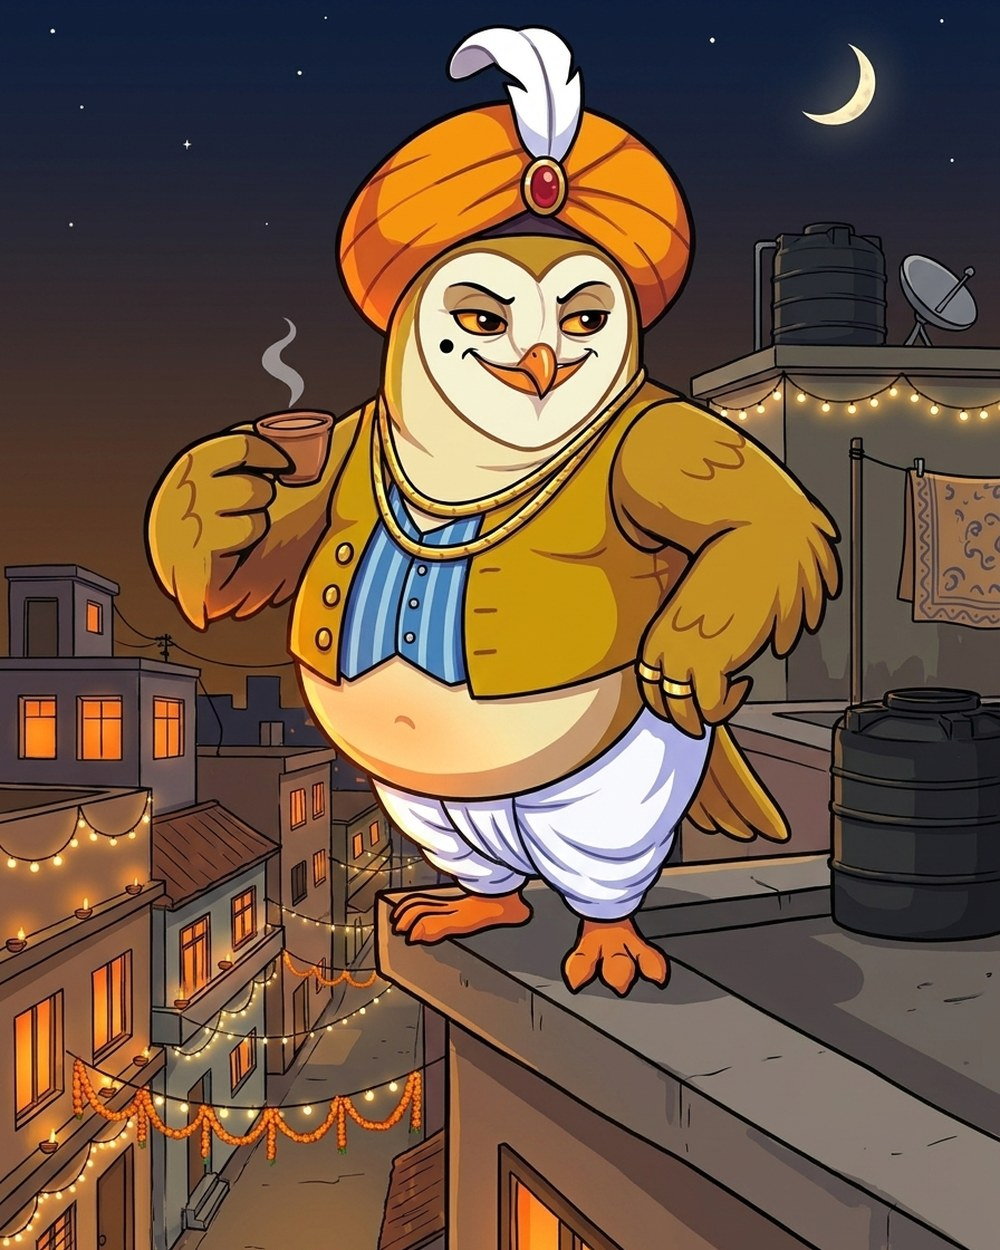
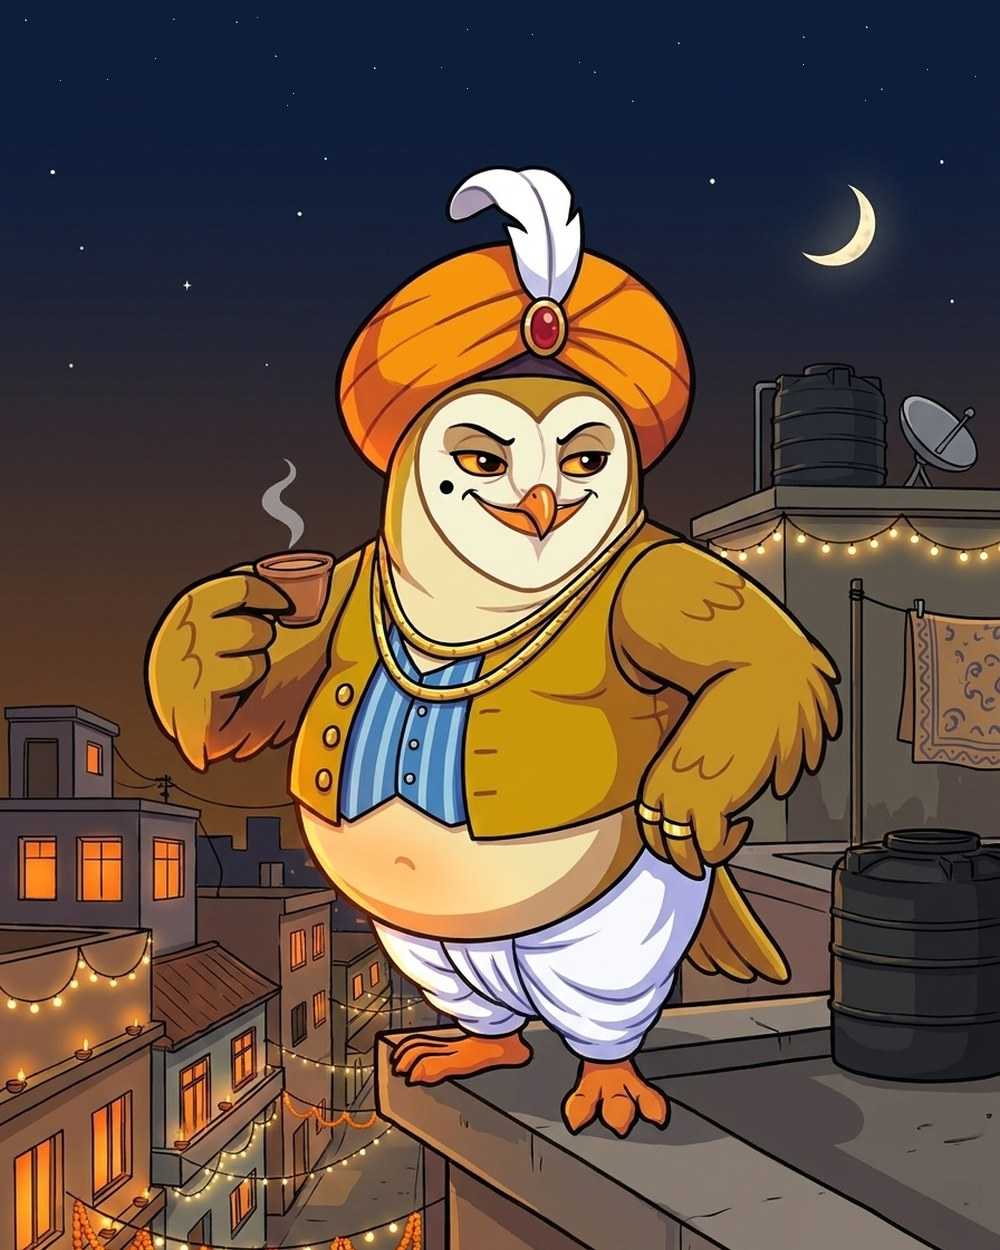
Ullu: mustard vest owl, masala palette, gallery ribbon, hero fit, smoother owls, 6 picture backgrounds

diff --git a/templates/landing/src/styles/lights.css b/templates/landing/src/styles/lights.css
@@ -300,12 +300,21 @@ html.ul-motion .lt-gift[open] .lt-gift-in { animation: lt-pop .45s var(--lt-ease
 
 /* ---- Gallery: arched windows ---- */
 .lt-gallery { list-style: none; margin: 0; padding: 0; display: grid; grid-template-columns: repeat(2, 1fr); gap: 14px; }
+/* the ribbon: one row that scrolls sideways; the scrollbar is hidden, the row shows a little past the page edges */
+.lt-ribbon.is-ribbon { overflow-x: auto; overflow-y: hidden; overscroll-behavior-x: contain; scrollbar-width: none; -ms-overflow-style: none; margin: 0 -16px; padding: 10px 16px 6px; -webkit-overflow-scrolling: touch; }
+.lt-ribbon.is-ribbon::-webkit-scrollbar { display: none; }
+.lt-ribbon.is-ribbon .lt-gallery { display: flex; gap: 16px; width: max-content; }
+.lt-ribbon.is-ribbon .lt-gallery > li { flex: 0 0 min(68vw, 250px); }
+.lt-ribbon.is-ribbon .lt-window img { -webkit-user-drag: none; user-select: none; -webkit-user-select: none; }
+.lt-ribbon.is-ribbon .lt-window { touch-action: pan-x pan-y; }
 .lt-window { display: block; width: 100%; padding: 0; border: 3px solid var(--t-accent); border-radius: 999px 999px 18px 18px; overflow: hidden; cursor: zoom-in; background: var(--lt-stage); aspect-ratio: 3 / 4;
   box-shadow: 0 0 30px -6px color-mix(in srgb, var(--t-primary) 45%, transparent); transition: transform .2s, box-shadow .2s; }
 .lt-window:hover { transform: translateY(-4px); box-shadow: 0 0 46px 0 color-mix(in srgb, var(--t-primary) 60%, transparent); }
 .lt-window img { width: 100%; height: 100%; object-fit: cover; display: block; }
 .lt-window-note { margin: 8px 4px 0; text-align: center; font-size: .9rem; color: var(--t-muted); }
-@media (min-width: 900px) { .lt-gallery { grid-template-columns: repeat(var(--cols, 4), 1fr); gap: 20px; } }
+@media (min-width: 900px) { .lt-gallery { grid-template-columns: repeat(4, 1fr); gap: 20px; }
+  .lt-ribbon.is-ribbon { padding: 14px 16px 8px; }
+  .lt-ribbon.is-ribbon .lt-gallery { gap: 22px; } .lt-ribbon.is-ribbon .lt-gallery > li { flex-basis: 300px; } }
 
 /* ---- Token: a house front ---- */
 .lt-facade { position: relative; padding: 20px 16px 18px; border-radius: 26px 26px 18px 18px; background: var(--lt-facade); border: 3px solid var(--lt-ink); color: var(--lt-ink);
@@ -490,6 +499,9 @@ html:not(.ul-motion) .lt-sparks { display: none; }
 html.ul-motion .lt-sleepy.is-on:not(.is-wake) { animation: lt-breathe 3.2s ease-in-out .9s infinite; }
 .lt-sleepy.is-on.is-wake { transition: transform .55s cubic-bezier(.6, -0.4, .7, .2), opacity .55s; transform: translate(-140%, -30px) rotate(-12deg); opacity: 0; }
 @keyframes lt-breathe { 50% { transform: scale(1.035, .985); } }
+/* the owl in the sky over the house hovers up and down a little, in his own box so the flip stays as drawn */
+html.ul-motion .lt-stage .ul-owl-fly { animation: lt-hover 3.4s ease-in-out infinite; transform-box: fill-box; transform-origin: center; }
+@keyframes lt-hover { 50% { transform: translateY(-3%) rotate(-2deg); } }
 html:not(.ul-motion) .lt-sleepy { transition: none; }
 
 /* ---- The secret word: the owl flies across the screen (LightsShell) ---- */
@@ -545,6 +557,9 @@ html:not(.ul-motion) .lt-sleepy { transition: none; }
 .lt-swatches button { width: 32px; height: 32px; border-radius: 50%; border: 3px solid var(--lt-ink); background: var(--c); box-shadow: 0 0 0 2px rgb(255 255 255 / .25); cursor: pointer; }
 .lt-swatches button.is-none { background: linear-gradient(135deg, transparent 45%, #E8343B 45% 55%, transparent 55%), rgb(255 255 255 / .08); }
 .lt-swatches button[aria-pressed="true"] { box-shadow: 0 0 0 3px var(--t-accent); }
+/* fingers: the font and colour buttons are tall enough to hit (the look stays the same) */
+@media (pointer: coarse) { .lt-fonts button { min-height: 40px; padding: 8px 14px; } .lt-swatches button { width: 38px; height: 38px; } .lt-swatches { gap: 10px; }
+  .lt-tabs button, .lt-cap { min-height: 32px; } }
 .lt-switch-small { margin-top: 12px; }
 /* the frame's handles may stick out of the picture: the picture keeps its rounded corners, the box lets the handles out */
 .lt-house-sec .lt-stage-box { overflow: visible; }

diff --git a/templates/landing/src/lib/lights-kit.js b/templates/landing/src/lib/lights-kit.js
@@ -119,8 +119,11 @@ export function houseSvg(h, placed = {}, opts = {}) {
   s += scene.over.replaceAll('ulfog', `${id}-fog`);
   if (opts.owl && opts.owl.href) {
     const o = opts.owl;
-    const flip = o.flip ? ` transform="translate(${2 * o.x} 0) scale(-1 1)"` : '';
-    s += `<image href="${o.href}" x="${o.x - o.size / 2}" y="${o.y - o.size}" width="${o.size}" height="${o.size}" preserveAspectRatio="xMidYMax meet"${flip}/>`;
+    // the mirror flip sits on a group of its own: the owl in the sky hovers a little through CSS (class ul-owl-fly), and a
+    // CSS transform would replace a transform attribute on the same element. On the roof or asleep he sits still.
+    const cls = o.pose === 'fly' || !o.pose ? ' class="ul-owl-fly"' : '';
+    const img = `<image${cls} href="${o.href}" x="${o.x - o.size / 2}" y="${o.y - o.size}" width="${o.size}" height="${o.size}" preserveAspectRatio="xMidYMax meet"/>`;
+    s += o.flip ? `<g transform="translate(${2 * o.x} 0) scale(-1 1)">${img}</g>` : img;
   }
   return s + '</svg>';
 }
